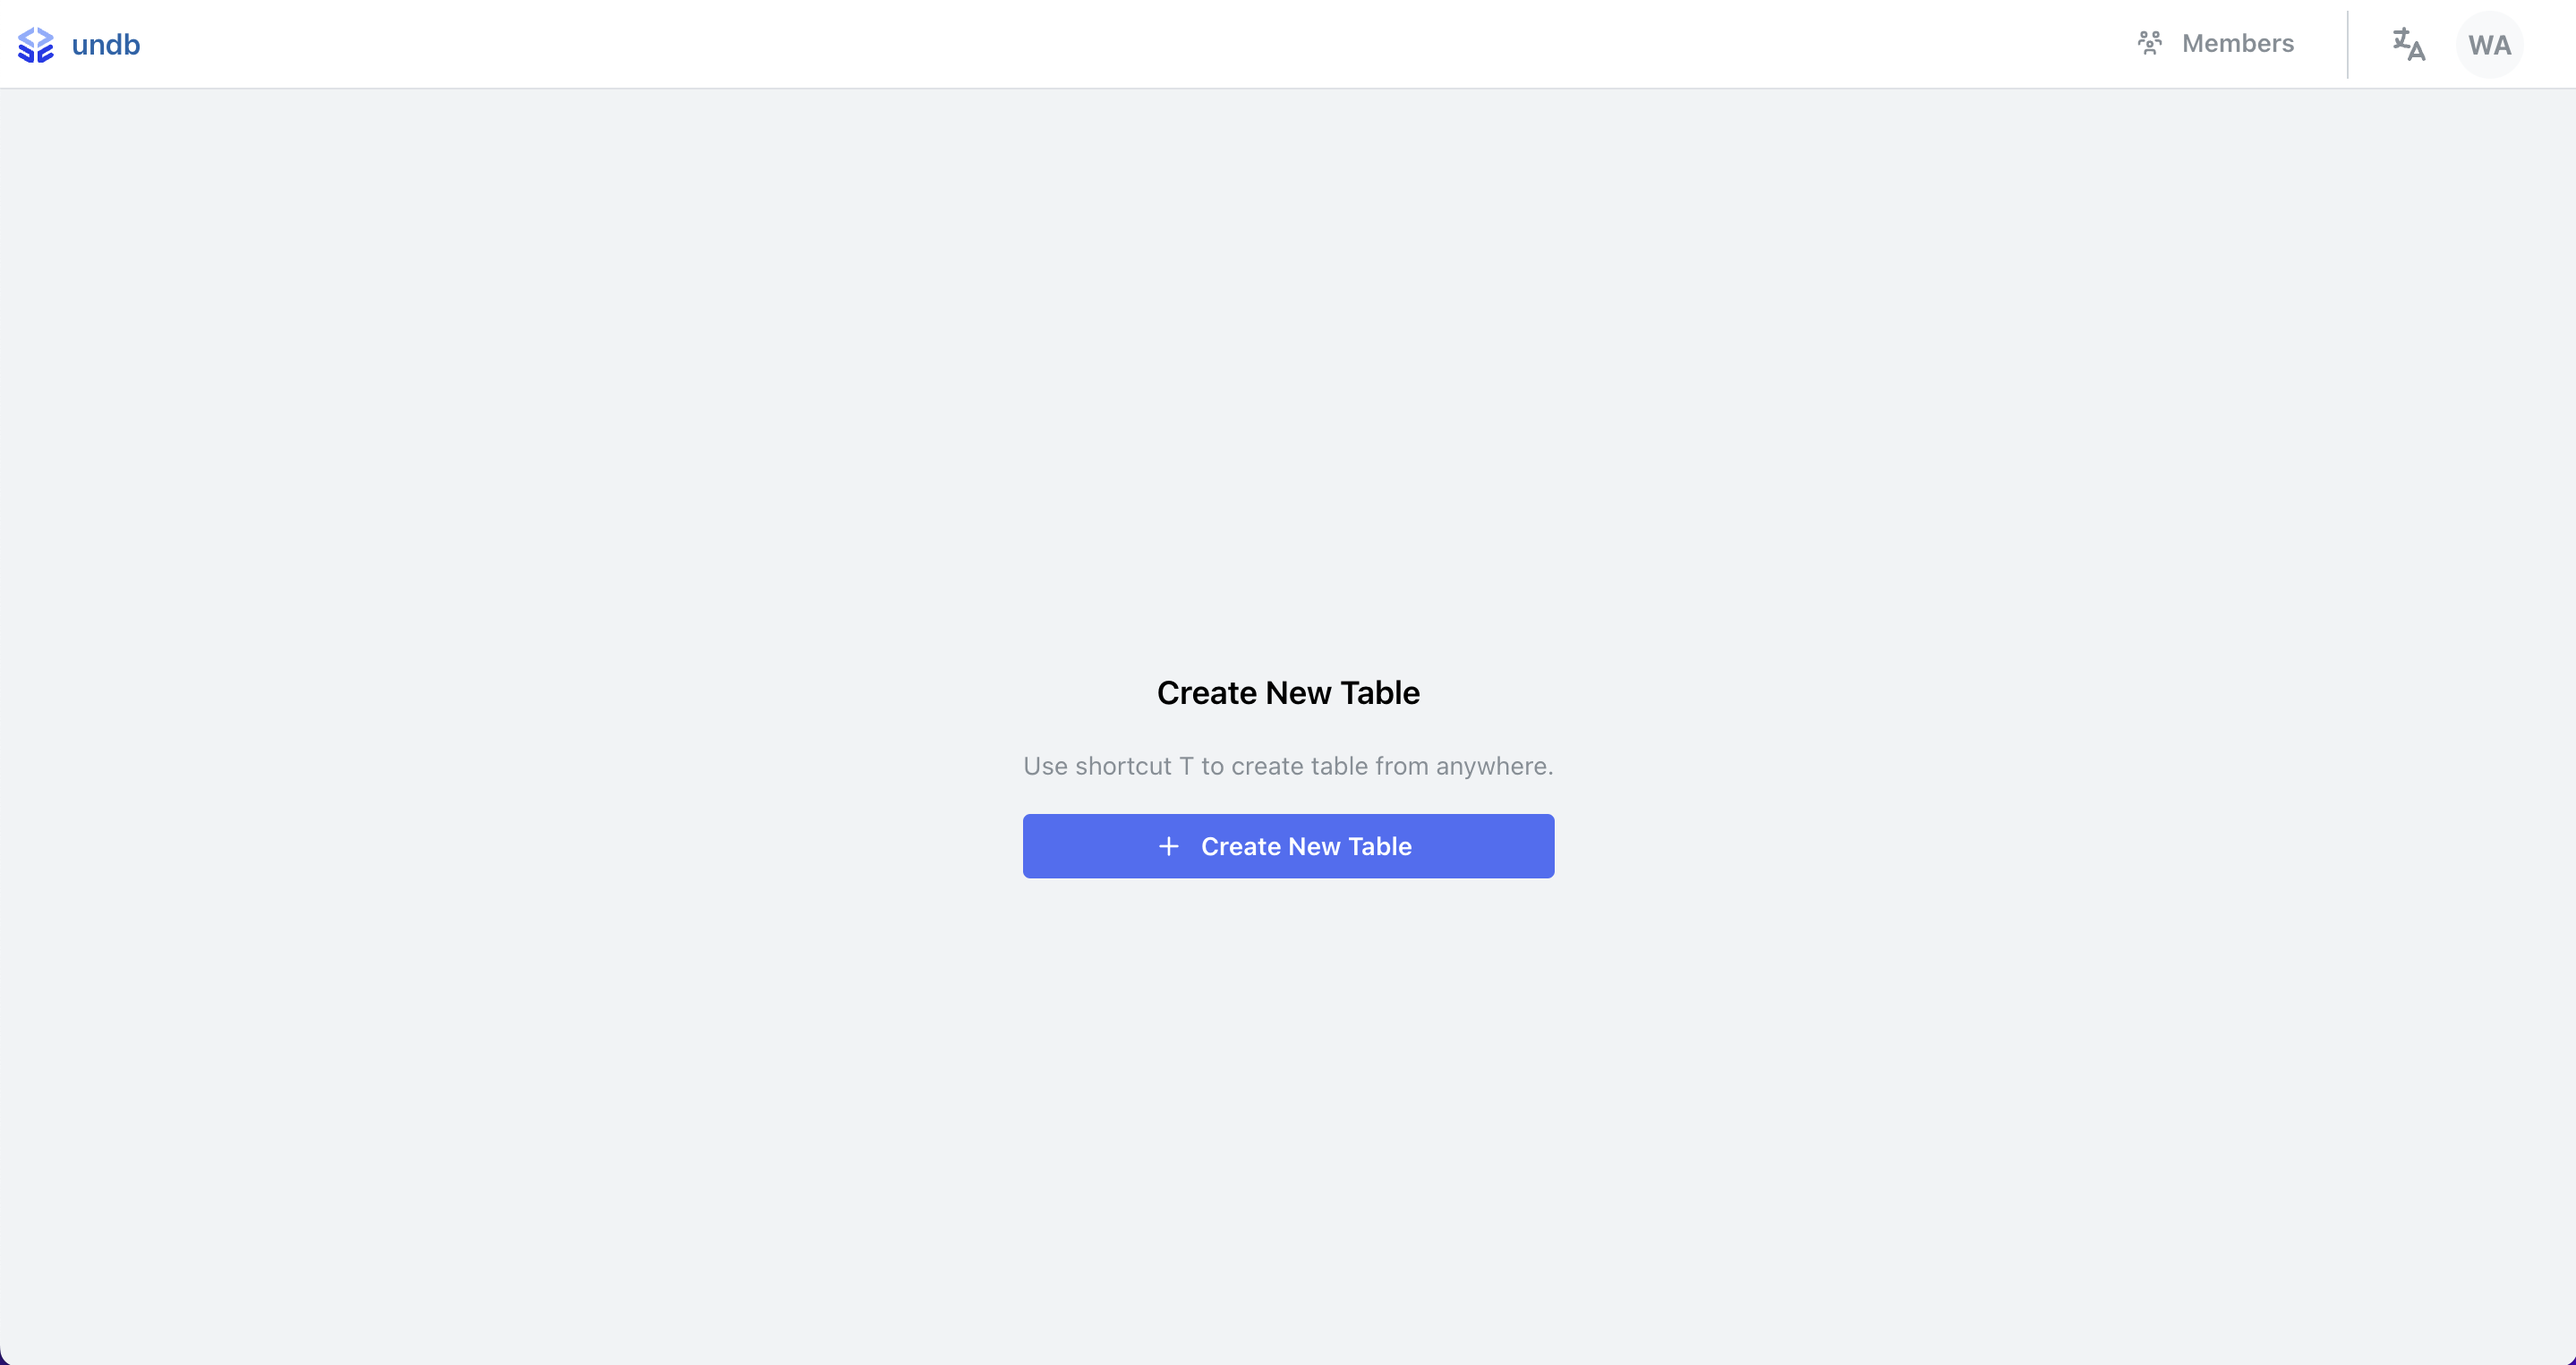
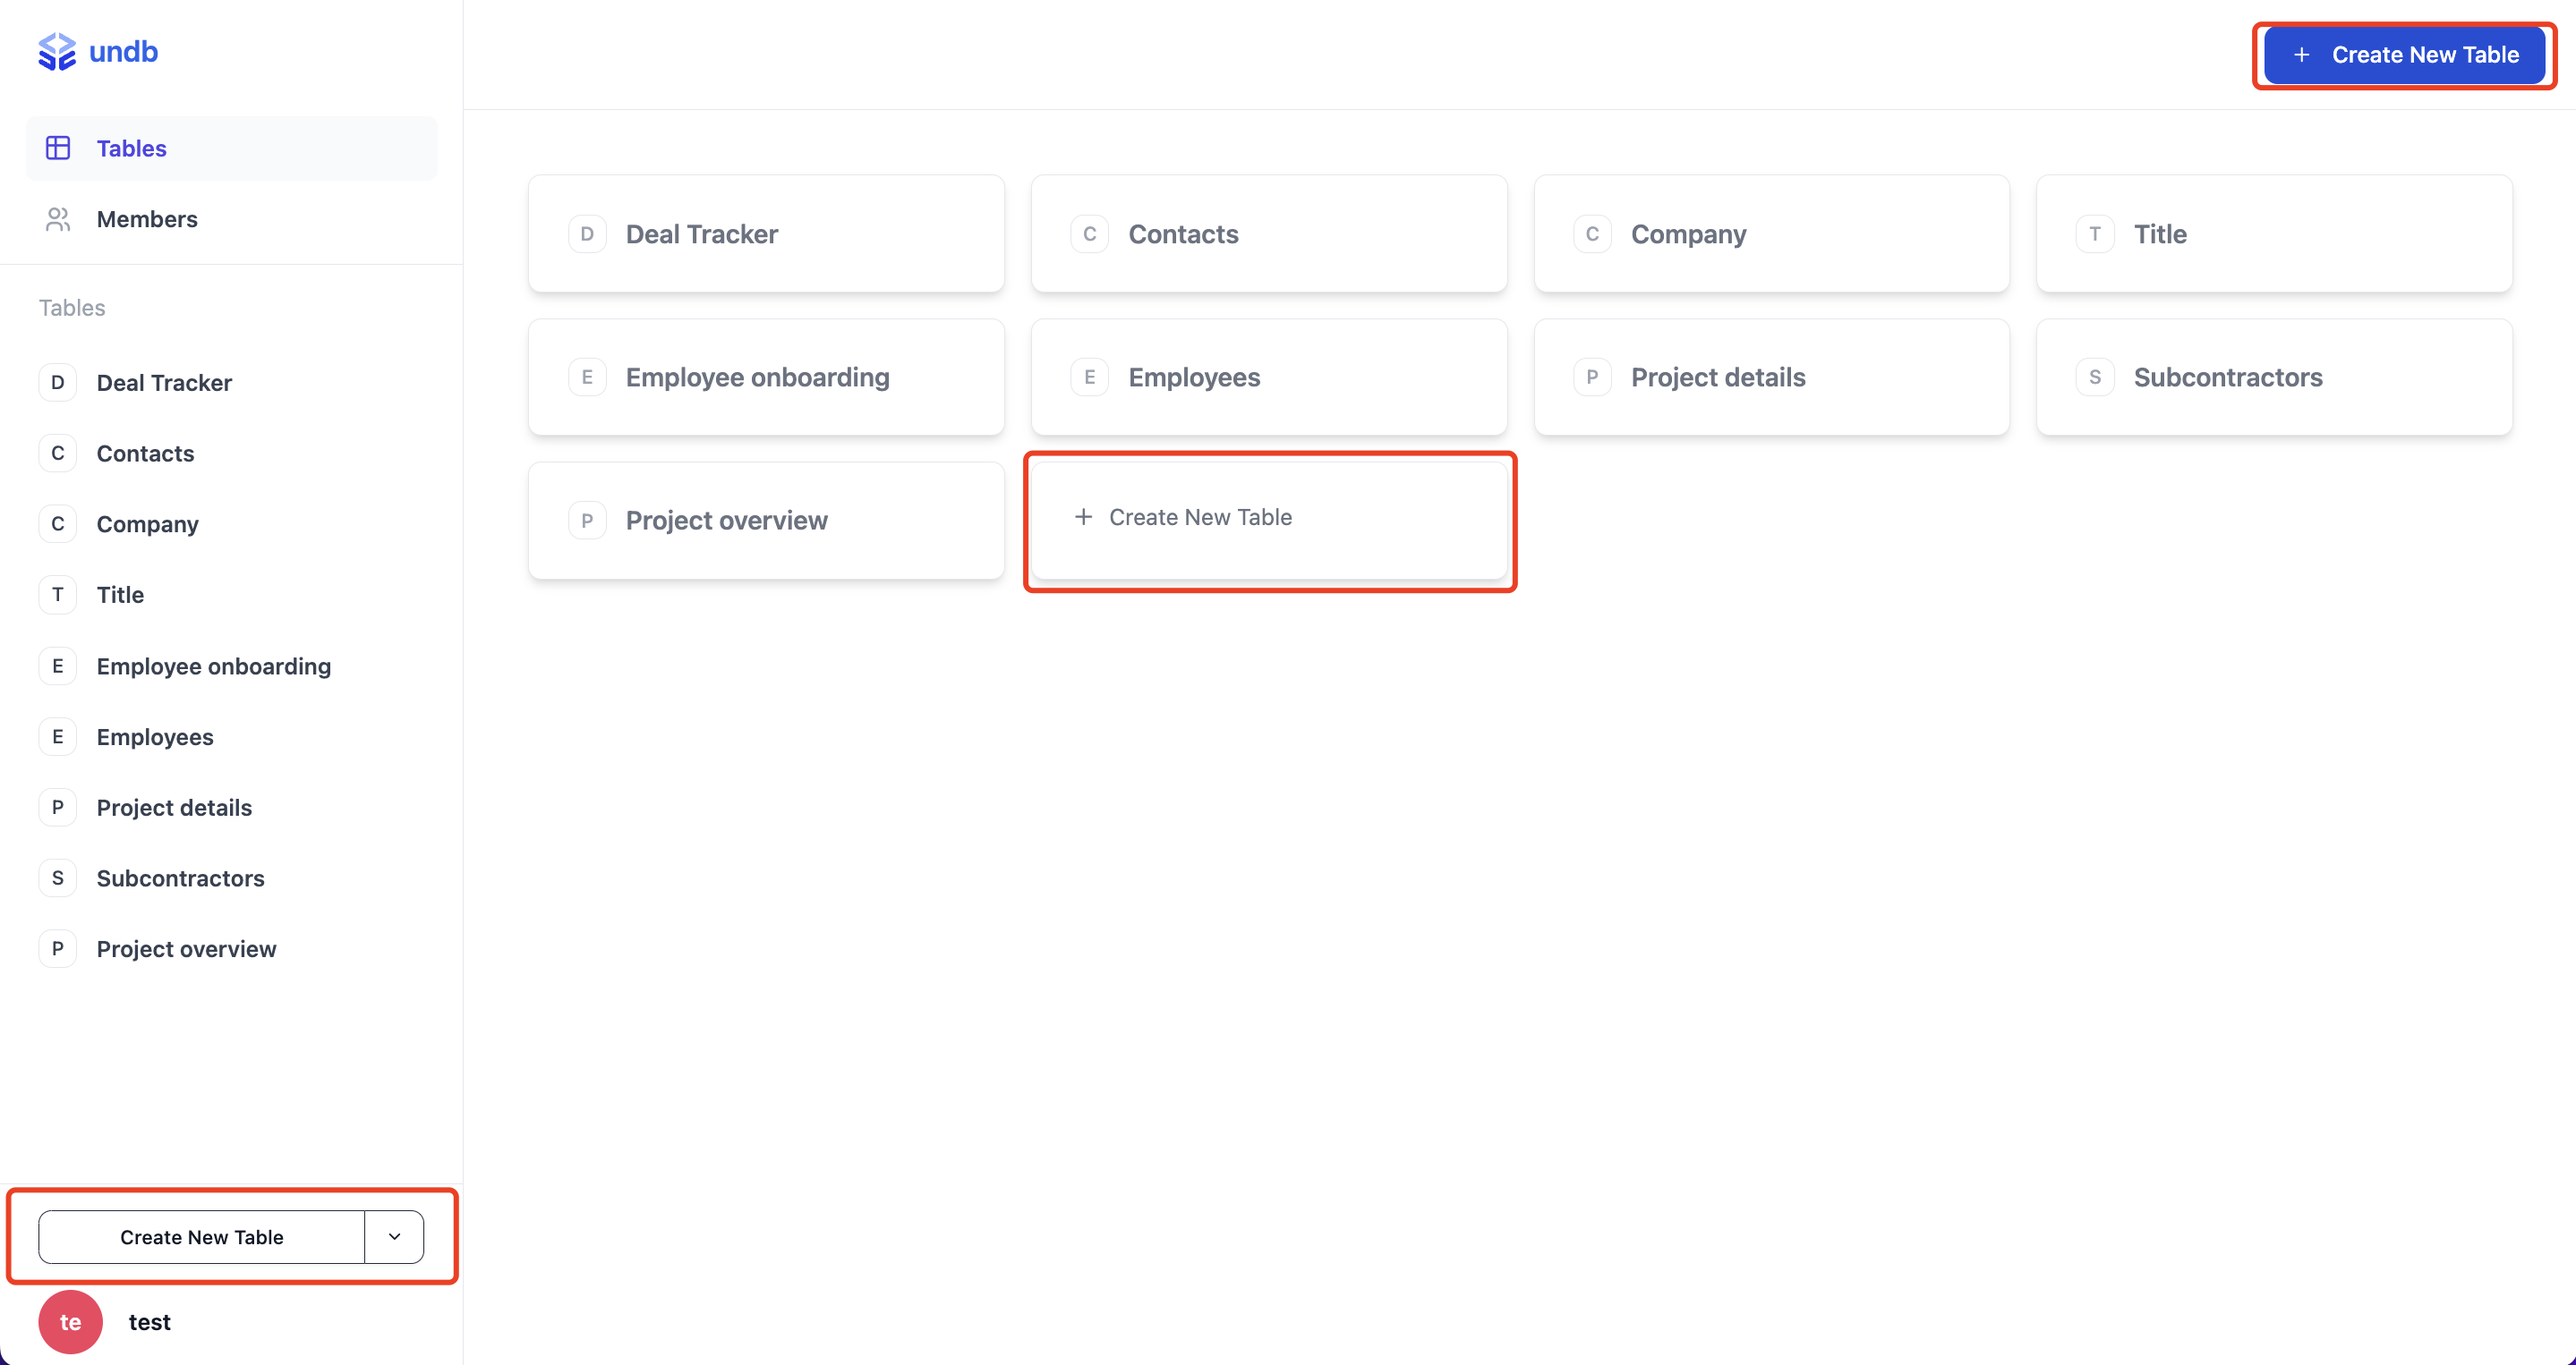
update docs

diff --git a/src/content/docs/en/tables.md b/src/content/docs/en/tables.md
@@ -11,29 +11,25 @@ Tables Overview
 
 ## Create Table
 
-- When you first enter Undb, you can click the 'create table' button in the middle of the interface.
+- Click the 'create table' button.
 
 ![create-new-table](/images/create-new-table.png)
 
-- Fill in the table's name in the drawer that pops up on the right side of the screen.
+- Fill in the name of the table in the Create New Table pop-up
 
-![create-new-table-2](/images/create-new-table-2.png)
+- Finally, click the "Create New Table" button. After successful creation, the table view will be created and opened as a new view.
+
+![create-new-table-2](/images/create-new-table-2.gif)
 
 **_*Note: When creating a new table, it is necessary to create a column within the table. Clicking the "Create New Field" button will automatically create a new column.*_**
 
-- Finally, click the "create" button. After successful creation, the table view will be created and opened as a new tab.
-
 ## Rename Table
-
-**There are two ways for rename table**
-
-- Click on the dropdown button located to the right of the table name in the top navigation bar, and then select the 'Update Table' option.
 
 - Click on the settings icon located in the top right corner of the screen.
 
-**Rename the table in the 'Update Table' drawer on the right-hand side.**
+**Enter the new table name in the 'Update Table' pop-up window and click the 'Update Table' button at the bottom of the pop-up window to update the table name.**
 
-![rename-table](/images/rename-table.png)
+![rename-table](/images/rename-table.gif)
 
 **_Note that updating the table name does not update the name of any associated views._**
 
@@ -41,8 +37,26 @@ Tables Overview
 
 **There are two ways for delete table**
 
-- Click on the dropdown button located to the right of the table name in the top navigation bar, and then select the 'Delete Table' option
+- Click the Settings icon located in the upper right corner of the screen to open the Update Table pop-up window.
 
-- Click on the 'More' icon in the top-right corner of the 'Update Table' drawer, and then select the option to delete the table.
+- Click on the 'More' Icon in the upper right corner of the 'Update Table' pop-up window to bring up the More options and click on Delete Table to delete it.
+
+- Secondary confirmation to delete this table.
+
+![delete-table](/images/delete-table.gif)
 
 > Note that currently the deleted table cannot be recovered.
+
+## Import & Export
+
+**Import**
+
+- Click on the 'More' Icon to the right of the 'Create New Table' button in the bottom left corner, select and click on 'Import CSV'.
+
+- Drag and drop the CSV file into the upload popup window or click on the upload popup window to select the local CSV file.
+
+- Finally click the 'Confirm' button.
+
+![import-csv](/images/Import-csv.gif)
+
+> You can select 'Use First Row as Headers' or 'Import Data' to control the imported table headers and data.

diff --git a/src/content/docs/en/fields.md b/src/content/docs/en/fields.md
@@ -13,15 +13,8 @@ description: ''
 
 **This support article covers how to add a new field.**
 
-- To create a new field, you can click on the + button just after the last visible field at the end of the table. Next, select the field type and input a name to identify the field. Click Create.
+- To create a new field, you can click the '+' button in the action bar. Next, select the field type and enter a name to identify the field. Click Create.
 
-![crete-field](/images/create-field.png)
-![crete-field-2](/images/create-field-2.png)
-
-## Insert a new field
-
-**To add a new field, you can either use the '+' button at the end of the table or insert a new field between existing fields. You can select a field and either insert a new field to the left or right of that field. Learn more about reordering and moving fields.**
-
-![insert-field](/images/insert-field.png)
+![crete-field](/images/create-new-field.png)
 
 In Undb, each [field can be configured](./field-configuration-options.md) to fit your use case. You can sort, filter, and hide the columns in a particular view without affecting other views in the table.

diff --git a/src/content/docs/en/field-configuration-options.md b/src/content/docs/en/field-configuration-options.md
@@ -11,10 +11,10 @@ title: 'Field configuration options'
 ![field-configuration-options](/images/field-configuration-options.png)
 
 - Update Field
-- Insert Left
-- Insert Right
+- Duplicate Field
 - Pin
 - Hide Field
+- Sort
 - Delete Field
 
 **_More types of fields are currently under development._**
